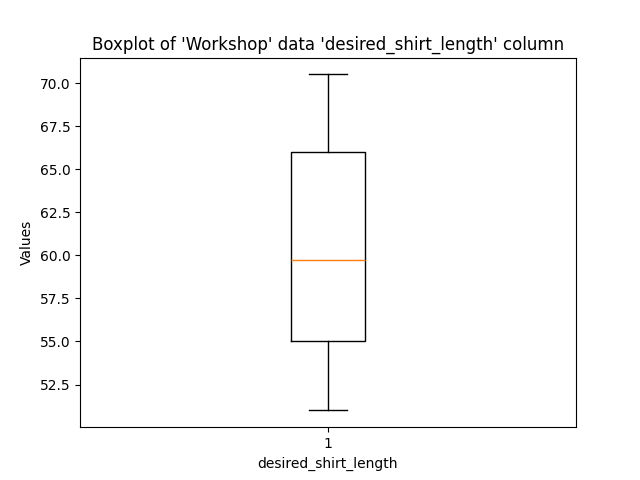
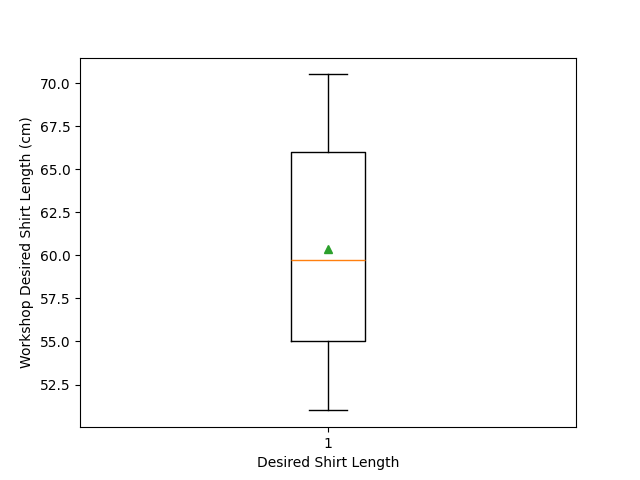
comit

diff --git a/mychapters/results.tex b/mychapters/results.tex
@@ -1,22 +1,10 @@
 \chapter{Results}
 
 \section{Workshop Study}
-The workshop study had eight participants a mean maximum bodice circumferemce of 99.96 cm, median of 98.50 cm and a standard deviation of 8.00 cm. The mean shirt length is 60.36 cm, median of 59.70 cm, and a standard deviation of 6.99 cm. Six of eight completed the entire study, reaching finished garment stage and fit evaluation. Their garments are seen in Figure \ref{fig:workshop_garments}
-\begin{figure}[htb]
-    \centering
-    \begin{subfigure}[b]{0.45\textwidth}
-        \centering
-        \includegraphics[width=\textwidth]{Images/Workshop_max_circ_Boxplot.png}
-        \caption{}
-    \end{subfigure}
-    \hfill
-    \begin{subfigure}[b]{0.45\textwidth}
-        \centering
-        \includegraphics[width=\textwidth]{Images/Workshop_desired_shirt_length_Boxplot.png}
-        \caption{}
-    \end{subfigure}
-    \caption{}
-\end{figure}
+The workshop study had 8 participants, 6 of whom reach the finished garment stage and fit evaluation (Figure \ref{fig:workshop_garments}). All participants used a 150 cm bolt.
+
+They had a mean maximum bodice circumference of 99.96 cm, median of 98.50 cm and a standard deviation of 8.00 cm (Figure \ref{fig:workshop_max_circ}). The mean shirt length was 60.36 cm, median of 59.70 cm, and a standard deviation of 6.99 cm (Figure \ref{fig:workshop_shirt_length}).
+Figure \ref{fig:workshop_bolt_widths} shows the difference between the ideal bolt widths and the used bolt. Figure \ref{fig:workshop_efficiency_bar} shows the difference between the ideal and used efficiency values. Efficiencies and cut loss areas distributions are shown in Figure \ref{fig:workshop_efficiency_boxplot} and Figure \ref{fig:workshop_cut_loss_area}.
 \newpage
 \begin{figure} [H]
     \centering
@@ -25,56 +13,73 @@ The workshop study had eight participants a mean maximum bodice circumferemce of
     \label{fig:workshop_garments}
 \end{figure}
 
-\begin{figure} [H]
+\begin{figure}[H]
     \centering
-    \includegraphics[width = 0.8\textwidth]{Images/fit likert stacked bar.png}
-    \caption{Fit Likert Scales}
+    \begin{subfigure}[b]{0.45\textwidth}
+        \centering
+        \includegraphics[width=\textwidth]{Images/Workshop_max_circ_Boxplot.png}
+        \caption{Max bodice circumference}
+        \label{fig:workshop_max_circ}
+    \end{subfigure}
+    \hfill
+    \begin{subfigure}[b]{0.45\textwidth}
+        \centering
+        \includegraphics[width=\textwidth]{Images/Workshop_desired_shirt_length_Boxplot.png}
+        \caption{Shirt length}
+        \label{fig:workshop_shirt_length}
+    \end{subfigure}
+    \caption{Workshop participant input measurement boxplots}
 \end{figure}
-\begin{figure} [H]
-    \centering
-    \includegraphics[width = 0.8\textwidth]{Images/comfort likert stacked bar.png}
-    \caption{Comfort Likert Scales}
-\end{figure}
-
 
 \begin{figure}[H]
     \centering
     \begin{subfigure}[b]{0.45\textwidth}
         \centering
-        \includegraphics[width=\textwidth]{Images/Workshop_efficiency_ideal_Boxplot.png}
+        \includegraphics[width=\textwidth]{Images/Workshop_BoltWidths_Scatter.png}
         \caption{}
+        \label{fig:workshop_bolt_widths}
     \end{subfigure}
-    \hfill
+    \vfill
     \begin{subfigure}[b]{0.45\textwidth}
         \centering
-        \includegraphics[width=\textwidth]{Images/Workshop_efficiency_used_Boxplot.png}
+        \includegraphics[width=\textwidth]{Images/Workshop_Eff_bar.png}
         \caption{}
+        \label{fig:workshop_efficiency_bar}
+    \end{subfigure}
+    \caption{Workshop ideal vs used bolt widths (a) and efficiencies (b)}
+\end{figure}
+
+\begin{figure}[H]
+    \centering
+    \begin{subfigure}[b]{0.45\textwidth}
+        \centering
+        \includegraphics[width=\textwidth]{Images/Workshop Efficiencies_Boxplot.png}
+        \caption{}
+        \label{fig:workshop_efficiency_boxplot}
+    \end{subfigure}
+    \begin{subfigure}[b]{0.45\textwidth}
+        \centering
+        \includegraphics[width=\textwidth]{Images/Workshop Cut Loss Area_Boxplot.png}
+        \caption{}
+        \label{fig:workshop_cut_loss_area}
     \end{subfigure}
     \caption{}
 \end{figure}
 
-\begin{figure} [H]
-    \centering
-    \includegraphics[width = 0.5\textwidth]{Images/Workshop_CutLossArea_Bar.png}
-    \caption{Workshop Cut Loss Area}
-\end{figure}
-\begin{figure} [H]
-    \centering
-    \includegraphics[width = 0.5\textwidth]{Images/Workshop_CutLossWidth_Bar.png}
-    \caption{Workshop Cut Loss Width}
-\end{figure}
-\begin{figure} [H]
-    \centering
-    \includegraphics[width = \textwidth]{Images/Workshop_Eff_bar.png}
-    \caption{Workshop Fabric Efficiency}
-\end{figure}
-\begin{figure} [H]
-    \centering
-    \includegraphics[width = \textwidth]{Images/Workshop_BoltWidths_Scatter.png}
-    \caption{Workshop Ideal Bolts}
-\end{figure}
+Lastly, responses to the Likert scales are graphed (Figures \ref{fig:fit_likert} and \ref{fig:comfort_likert}), showing the qualititative analysis of the participants' satisfaction with the fit and cofort of their finished garments.
 
-Efficiency, bolt width, cut loss width, and cut loss area for Workshop Study comparing ideal bolt and actual used bolt. All efficiencies when using ideal bolt width are greater than 95\%.
+\begin{figure} [H]
+    \centering
+    \includegraphics[width = 0.8\textwidth]{Images/fit likert stacked bar.png}
+    \caption{Fit Likert Scales}
+    \label{fig:fit_likert}
+\end{figure}
+\begin{figure} [H]
+    \centering
+    \includegraphics[width = 0.8\textwidth]{Images/comfort likert stacked bar.png}
+    \caption{Comfort Likert Scales}
+    \label{fig:comfort_likert}
+\end{figure}
 
 
 \section{Body Scans Study}
@@ -178,6 +183,7 @@ For the range of bolt widths between 110 and 160 cm, each pattern generated for 
 \textbf{ADD recoup of cut loss area due to embellishment}
 
 \section{Personal Case Study}
+Using the parameterisation method defined, the author's pattern width and pattern height is 128.5 cm and 98.5 cm, respectively. The obj file obtained from the 3D scan was imported into CLO3D as the avatar. The pattern pieces were both virtually sewed and draped (Figure \ref{fig:renderedCLO}) and the physically cut and sewed into the tangible garment (Figure \ref{fig:personal_garment}).
 
 \begin{figure}[H]
     \centering
@@ -190,7 +196,7 @@ For the range of bolt widths between 110 and 160 cm, each pattern generated for 
     \begin{subfigure}[b]{0.3\textwidth}
         \centering
         \includegraphics[width=\textwidth]{Images/renderside.png}
-        \caption{Back}
+        \caption{Side}
     \end{subfigure}
     \hfill
     \begin{subfigure}[b]{0.3\textwidth}
@@ -199,4 +205,12 @@ For the range of bolt widths between 110 and 160 cm, each pattern generated for 
         \caption{Back}
     \end{subfigure}
     \caption{Custom shirt draped on personal scan in CLO3D}
+    \label{fig:renderedCLO}
+\end{figure}
+
+\begin{figure} [H]
+    \centering
+    \includegraphics[width = \textwidth]{Images/Mendeley_Bar.png}
+    \caption{Custom shirt sample}
+    \label{fig:personal_garment}
 \end{figure}

diff --git a/mychapters/litreview.tex b/mychapters/litreview.tex
@@ -15,14 +15,14 @@ The hierarchy of waste management options (Figure \ref{fig:waste_hierarchy}) can
 In the context of recouping fabric, designers should consider garment utility. Enhancing garment utility can involve incorporating fabric cut loss reduction into the garment's design in creative ways, simultaneously increasing the garment's overall appeal and lifespan. This is a core principle of `slow fashion', which advocates for mindful consumption and long-term use of clothing. By focusing on garment utility, designers can create more sustainable fashion products that meet consumer demands and address the cutting floor's environmental impact.
 
 \section{Traditional Pattern Making}
-Traditional pattern making involves the creation of two-dimensional templates for cutting fabric pieces of a garment. This manual process, outlined in Figure \ref{fig:traditional_making_flow}, includes several critical steps. In industrial settings, these roles are carried out by different specialists. First, a designer creates a fashion sketch. A patternmarker then interprets the sketch into pieces, drafting a basic pattern block from specifications and measurements. Once this is established, grading is used to scale the pattern to different sizes, adding or subtracting specific amounts at strategic points to maintain the proportions of the original design. A marker-maker subsequently creates a marker, a layout of pattern pieces on fabric. Finally, the fabric is cut, and the pieces given to a sewer to assemble the garment. In smaller-scale or independent practices, however, the same person may perform multiple or all these tasks, necessitating a broad skill set and understanding of each role. This versatility contrasts with the specialisation seen in larger-scale operations.
+Traditional pattern making involves the creation of two-dimensional templates for cutting fabric pieces of a garment. This manual process, outlined in Figure \ref{fig:traditional_making_flow}, includes several critical steps. In industrial settings, these roles are carried out by different specialists. First, a designer creates a fashion sketch. A patternmarker then interprets the sketch into pieces, drafting a basic pattern block from specifications and measurements. Once this is established, grading is used to scale the pattern to different sizes, adding or subtracting specific amounts at strategic points to maintain the proportions of the original design. A marker-maker subsequently creates a marker, a layout of pattern pieces on fabric. Finally, the fabric is cut, and the pieces given to a sewer to assemble the garment \cite{gill_evolving_2023}. In smaller-scale or independent practices, however, the same person may perform multiple or all these tasks, necessitating a broad skill set and understanding of each role. This versatility contrasts with the specialisation seen in larger-scale operations.
 \begin{figure} [htb]
     \centering
     \includegraphics[width=\textwidth]{Images/pattern make diagram.png}
     \caption{Traditional pattern making flow}
     \label{fig:traditional_making_flow}
 \end{figure}
-Grading has been criticised for its lack of inclusivity, as it often does not accommodate diverse body shapes and sizes. Examples abound of `big/tall' sizes, `petite' sizes, and size nomenclature devoid of specific body measurements (e.g., `women's size 6'). The challenge lies in the fact that human proportions do not scale uniformly, making it impossible to apply a universal rule to pattern scaling. Various approaches, such as manual grading \cite{aldrich_metric_2015}, rule-based grading, and computer-aided design grading, attempt to address this issue, but none can universally adapt a pattern to all body types \cite{wiggermann_anthropometric_2019}. Often, manufacturers do not produce clothing in all sizes for branding or inventory reasons, further limiting consumer choice. This lack of inclusivity underscores the complexity and limitations of current grading systems in addressing the diversity of human body shapes \cite{gabriel_economics_2023}.
+Grading has been criticised for its lack of inclusivity, as it often does not accommodate diverse body shapes and sizes. Examples abound of `big/tall' sizes, `petite' sizes, and size nomenclature devoid of specific body measurements (e.g., `women's size 6'). The challenge lies in the fact that human proportions do not scale uniformly, making it impossible to apply a universal rule to pattern scaling \cite{noauthor_why_2011}. Various approaches, such as manual grading \cite{aldrich_metric_2015}, rule-based grading \cite{mccann_12_2009}, and computer-aided design grading \cite{liu_computer-aided_1995}, attempt to address this issue, but none can universally adapt a pattern to all body types \cite{wiggermann_anthropometric_2019}. Often, manufacturers do not produce clothing in all sizes for branding or inventory reasons, further limiting consumer choice. This lack of inclusivity underscores the complexity and limitations of current grading systems in addressing the diversity of human body shapes \cite{gabriel_economics_2023}.
 
 While effective for mass production, traditional methods often result in significant fabric waste. Traditional pattern pieces placed on a marker are cut out separately, surrounded by negative space. This separation often results in pieces not sharing borders, leading to unusable offcuts. Even with advanced software (Figure \ref{fig:digital_marker_layout}) and skilled manual marker-makers, fabric wastage remains north of 10\%. Fletcher critiques the fact that waste minimisation is not integrated into the design phase, highlighting that the industry accepts these losses as an acceptable and inevitable part of the supply chain.
 \begin{figure} [htb]

diff --git a/mychapters/desengprocess.tex b/mychapters/desengprocess.tex
@@ -361,7 +361,7 @@ Body measurements were taken consistently using a provided diagram and instructi
 \begin{figure} [H]
     \centering
     \includegraphics[width = \textwidth]{Images/workshopmeasure.png}
-    \caption{Workshop measurement taking instructions}
+    \caption{Workshop measurement taking instructions \cite{noauthor_standard_nodate}}
     \label{fig:workshopmeasure}
 \end{figure}
 
@@ -373,7 +373,7 @@ Body measurements were taken consistently using a provided diagram and instructi
 \subsection{Purpose}
 This study aims to validate tail0r's processes across a larger dataset than the workshop. Fabric use efficiency metrics and efficacy of pattern segmentation and reconstruction strategies will be computed. No fit analysis will be performed as physical garments will not be produced.
 
-The data comes from the University of Manchester's Apparel Design Engineering (ADE) team. They have made public 100 scans processed using a Size Stream body scanner. The scans are a sample of 20-30 year- old females from the United Kingdom (referred to as the Mendeley dataset).
+The data comes from the University of Manchester's Apparel Design Engineering (ADE) team. They have made public 100 scans processed using a Size Stream body scanner. The scans are a sample of 20-30 year- old females from the United Kingdom (referred to as the Mendeley dataset) \cite{parker_100_2017}.
 
 Similar to the workshop study, the body scan dataset will be described using the max bodice circumference and the shirt length of the participants as these measurements are most indicative of the pattern's dimensions and thus resulting waste.
 
@@ -424,9 +424,7 @@ The purpose of this study is to take an individual scan and parameterise the gar
 There is some utility in draping on a generic 3D avatar, however evaluating fit is better on a personalised scan, akin to seeing clothes on a mannequin versus trying them on. This is an example of research through design to complement the methodology of the other studies.
 
 \subsection{Methods}
-The author got their own scan data from the ADE group in Manchester. Pattern parameterisation differs slightly due to slightly different data points provided. The data did not provide an Axilla Chest circumference and was omitted from max bodice circumference computation. 
-
-Also data did not have a half back centre measurement but did provide the neck base circumference. The height derivative of the neck base circumference was used and the crotch height subtracted from it to get the desired shirt length. This is consistent with the method used in 3.4. 
+The author got their own scan data from the ADE group in Manchester. Pattern parameterisation differs slightly due to slightly different data points provided. The data did not provide an Axilla Chest circumference and was omitted from max bodice circumference computation. Besides that, pattern width is calculated the same as in the body scans study. Personal scan data did not have a half back centre measurement but did provide the neck base circumference. So, the height derivative of the neck base circumference is used to calculate shirt length by substracting crotch height. This is done to have consistency with the method used in 3.4.
 Shirt Length = Neck Base Height - Crotch Height
 					
 The median values of the measurements from 5 total scans were used in the pattern's parameterisation to account for variability that could arise from factors such as posture, breathing, and slight movements during scanning.
